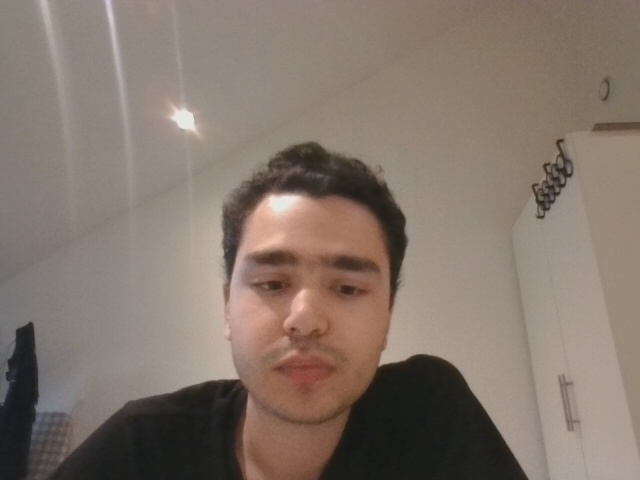
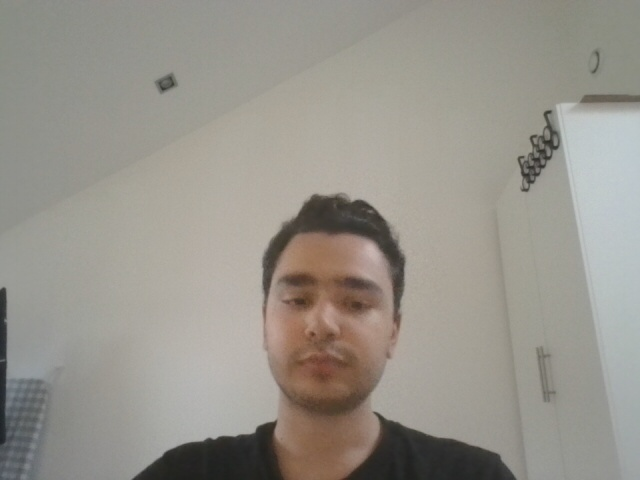
Editing and Coordinate functions now work.

diff --git a/gui_app/frame_canvas.py b/gui_app/frame_canvas.py
@@ -18,6 +18,15 @@ class FrameCanvas(tk.Frame):
         self.max_width = 1500
         self.max_height = 860
 
+        # Label for displaying real frame coordinates under the mouse.
+        # It is packed first at the bottom so the canvas cannot hide it.
+        self.coordinate_label = tk.Label(
+            self,
+            text="Coordinates: X = -, Y = -",
+            anchor="w"
+        )
+        self.coordinate_label.pack(side=tk.BOTTOM, fill="x")
+
         # Create canvas where the camera frame and zone overlay are displayed.
         self.canvas = tk.Canvas(
             self,
@@ -25,15 +34,7 @@ class FrameCanvas(tk.Frame):
             width=self.max_width,
             height=self.max_height
         )
-        self.canvas.pack(fill=tk.BOTH, expand=True)
-
-        # Label for displaying real frame coordinates under the mouse.
-        self.coordinate_label = tk.Label(
-            self,
-            text="Coordinates: X = -, Y = -",
-            anchor="w"
-        )
-        self.coordinate_label.pack(fill="x")
+        self.canvas.pack(side=tk.TOP, fill=tk.BOTH, expand=True)
 
         # Drawing/editing states.
         self.drawing = False
@@ -62,7 +63,7 @@ class FrameCanvas(tk.Frame):
         self.capture = CameraModule().get_webcam_capture()
 
         # Set camera resolution.
-        # Your newer version uses 640x480, so the saved zone coordinates
+        # This version uses 640x480, so the saved zone coordinates
         # will match this camera resolution.
         self.capture.set(cv2.CAP_PROP_FRAME_WIDTH, 640)
         self.capture.set(cv2.CAP_PROP_FRAME_HEIGHT, 480)
@@ -150,13 +151,19 @@ class FrameCanvas(tk.Frame):
             return
 
         # Editing mode: clicking near an existing point selects it.
-        self.selected_point_index = self.find_nearest_point(event.x, event.y)
+        if self.editing:
+            self.selected_point_index = self.find_nearest_point(event.x, event.y)
 
-        if self.selected_point_index is not None:
-            print(f"Selected point {self.selected_point_index + 1} for editing.")
+            if self.selected_point_index is not None:
+                print(f"Selected point {self.selected_point_index + 1} for editing.")
+            else:
+                print("No point selected.")
 
     def on_drag_point(self, event):
         # Drag selected point to a new position.
+        if not self.editing:
+            return
+
         if self.selected_point_index is None:
             return
 
@@ -167,6 +174,11 @@ class FrameCanvas(tk.Frame):
 
         self.drawn_points[self.selected_point_index] = original_point
         self.__redraw_overlay()
+
+        x, y = original_point
+        self.coordinate_label.config(
+            text=f"Coordinates: X = {int(x)}, Y = {int(y)}"
+        )
 
     def on_release_point(self, event):
         # Stop editing the selected point.
@@ -203,6 +215,9 @@ class FrameCanvas(tk.Frame):
             return
 
         self.closed_zone_visible = True
+        self.editing = True
+        self.drawing = False
+
         self.__redraw_overlay()
 
         print("Zone displayed.")
@@ -260,9 +275,14 @@ class FrameCanvas(tk.Frame):
 
     def zoom(self, event):
         # Mouse wheel zoom.
-        if event.num == 4 or event.delta > 0:
+        # The checks with hasattr make this more stable across Windows, macOS, and Linux.
+        if hasattr(event, "num") and event.num == 4:
             self.zoom_factor *= 1.1
-        elif event.num == 5 or event.delta < 0:
+        elif hasattr(event, "num") and event.num == 5:
+            self.zoom_factor /= 1.1
+        elif hasattr(event, "delta") and event.delta > 0:
+            self.zoom_factor *= 1.1
+        elif hasattr(event, "delta") and event.delta < 0:
             self.zoom_factor /= 1.1
 
         # Limit zoom level.
@@ -275,7 +295,11 @@ class FrameCanvas(tk.Frame):
 
     def find_nearest_point(self, canvas_x, canvas_y):
         # Find nearest existing point for editing.
-        threshold = 15
+        # A larger threshold makes selecting points easier.
+        threshold = 25
+
+        nearest_index = None
+        nearest_distance = float("inf")
 
         for index, point in enumerate(self.drawn_points):
             point_canvas = self.original_to_canvas_coordinates(point[0], point[1])
@@ -287,14 +311,18 @@ class FrameCanvas(tk.Frame):
 
             distance = ((canvas_x - px) ** 2 + (canvas_y - py) ** 2) ** 0.5
 
-            if distance <= threshold:
-                return index
+            if distance < nearest_distance and distance <= threshold:
+                nearest_distance = distance
+                nearest_index = index
 
-        return None
+        return nearest_index
 
     def canvas_to_original_coordinates(self, canvas_x, canvas_y):
         # Convert canvas coordinates to original camera-frame coordinates.
         if self.last_frame is None:
+            return None
+
+        if self.current_img_w == 0 or self.current_img_h == 0:
             return None
 
         frame_h, frame_w = self.last_frame.shape[:2]
@@ -326,6 +354,9 @@ class FrameCanvas(tk.Frame):
     def original_to_canvas_coordinates(self, original_x, original_y):
         # Convert original camera-frame coordinates to displayed canvas coordinates.
         if self.last_frame is None:
+            return None
+
+        if self.current_img_w == 0 or self.current_img_h == 0:
             return None
 
         center_x, center_y = self.__return_center()
@@ -433,7 +464,8 @@ class FrameCanvas(tk.Frame):
                 x2,
                 y2,
                 fill="blue",
-                width=2
+                width=2,
+                tags=("zone_overlay",)
             )
 
             self.overlay_ids.append(line_id)
@@ -449,7 +481,8 @@ class FrameCanvas(tk.Frame):
                 x2,
                 y2,
                 fill="blue",
-                width=2
+                width=2,
+                tags=("zone_overlay",)
             )
 
             self.overlay_ids.append(line_id)
@@ -458,7 +491,8 @@ class FrameCanvas(tk.Frame):
         for index, point in enumerate(canvas_points):
             x, y = point
 
-            radius = 5
+            # Slightly larger radius makes points easier to select for editing.
+            radius = 7
 
             point_id = self.canvas.create_oval(
                 x - radius,
@@ -467,15 +501,17 @@ class FrameCanvas(tk.Frame):
                 y + radius,
                 fill="green",
                 outline="black",
-                width=1.5
+                width=1.5,
+                tags=("zone_overlay", "zone_point")
             )
 
             text_id = self.canvas.create_text(
-                x + 12,
-                y - 12,
+                x + 14,
+                y - 14,
                 text=str(index + 1),
                 fill="white",
-                font=("Arial", 12, "bold")
+                font=("Arial", 12, "bold"),
+                tags=("zone_overlay",)
             )
 
             self.overlay_ids.append(point_id)
